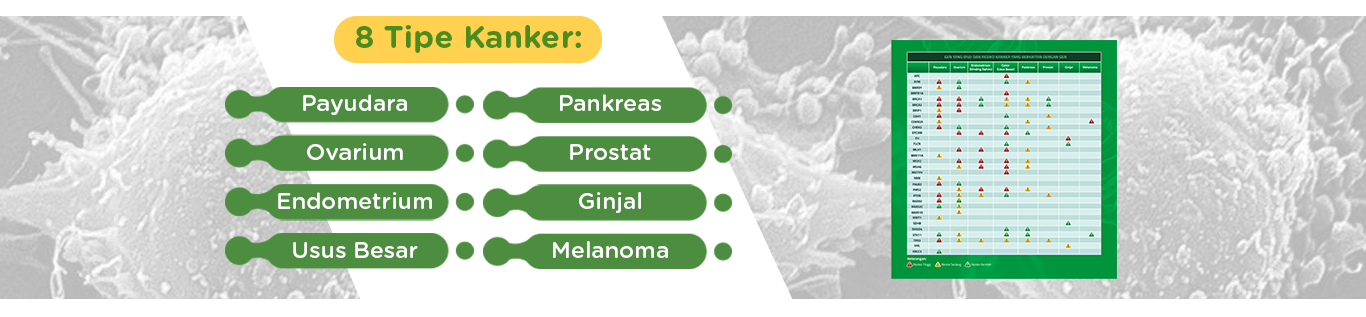
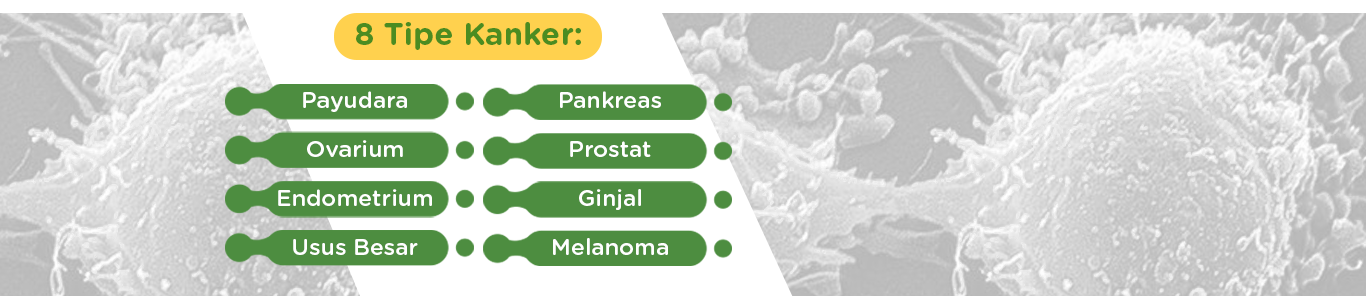
Update

diff --git a/assets/css/hcs/detail.css b/assets/css/hcs/detail.css
@@ -1,23 +1,20 @@
-
+/* Barisan 1 */
 .hcs-detail{
     background-image: url("../../images/hcs-detail/Hereditary.png");
     background-repeat: no-repeat;
-    height: 450px;
-    margin-top: -137px
+    background-size:cover;
+    background-position: center;
+    height: 550px;
+    margin-top: -140px
     /* Center and scale the image nicely */
 }
 
-.hcs-detail-2{
-    background-image: url("../../images/hcs-detail/8-tipe-kanker.png");
-    height: 450px;
-    background-repeat: no-repeat;
-}
-
 .detail-posisi{
-    padding-top: 200px;
+    padding-top: 170px;
     opacity: 0.9;
     transition: padding 0.9s,;
     -webkit-transition: padding 0.9s, ;
+    transition: color 0.3s, background-color 0.3s, padding 0.9s ;
 }
 
 @font-face {
@@ -27,7 +24,7 @@
 .header-detail{
     color: white;
     font-family: "GothamRounded-Medium";
-
+    font-size: 32px;
     
 }
 
@@ -35,6 +32,39 @@
     font-family: "GothamRounded-Book";
     src: url('../../bootstrap/fonts/GothamRounded-Book.otf');
     }
+.caption-detail{
+    color: white;
+    font-family: "GothamRounded-Book";
+    font-size : 22px;
+    text-align : justify;
+}
+
+/* Barisan 1 */
+
+
+/* Barisan 2 */
+
+.hcs-detail-2{
+    background-image: url("../../images/hcs-detail/8-tipe-kanker.png");
+    height: 290px;
+
+    background-repeat:no-repeat;
+    background-size:cover;
+    background-position:center;
+
+    margin-top : 80px;
+}
+
+.image-detail-2{
+    margin-top : 30px;
+
+}
+
+
+/* Barisan 2 */
+
+
+
 /* .header-hcs-2{
     color:white;
     font-family: "GothamRounded-Medium";

diff --git a/views/page-detail-hcs.html b/views/page-detail-hcs.html
@@ -3,7 +3,7 @@
 <link rel="stylesheet" href="assets/css/alamat_custom.css">
 <link rel="stylesheet" href="assets/css/hcs/detail.css">
 
-<!-- barisan 1 -->
+<!-- barisan copy -->
 <section class="bg-img hcs">
     <div class="container word-header-hcs">
       <div class="row">
@@ -14,18 +14,18 @@
       </div>
     </div>
 </section>
-<!-- barisan 1 -->
+<!-- barisan copy -->
 
-<!-- Barisan 2 -->
+<!-- Barisan 1 -->
 <section class="hcs-detail">
     <div class="container detail-posisi">
         <div class="row">
-            <div class="col-md-7">
+            <div class="col-md-3">
                 <h1 class="header-detail">HEREDITARY CANCER SCREENING </h1>
             </div>
         </div>
         <div class="row">
-            <div class="col-md-7">
+            <div class="col-md-6">
                 <p class="caption-detail">
                     Melalui Hereditary Cancer Screening, sebanyak  32 
                     gen  yang   diasosiasikan   dengan   8  jenis  kanker 
@@ -36,13 +36,21 @@
         </div>
     </div>
 </section>
+<!-- Barisan 1 -->
+
 <!-- Barisan 2 -->
-
-<!-- Barisan 3 -->
 <section class="hcs-detail-2">
-    <div>
-
+    <div class="container posisi">
+        <div class="row">
+            <div class="col-md-6">
+                   
+            </div>
+            <div class="col-md-6 image-detail-2">
+                    <img class="img-responsive" ng-src="assets/images/hcs-detail/{{tabelKanker}}"  />
+            </div>
+        </div>
     </div>
 </section>
-<!-- Barisan 3 -->
+<!-- Barisan 2 -->
+
 

diff --git a/app/controller/hcsController.js b/app/controller/hcsController.js
@@ -14,6 +14,8 @@ animateApp.controller('hcsController', function($scope) {
 
     $scope.igWhite ="instagram-white.png";
     $scope.igColor = "instagram-colored.png";
+
+    $scope.tabelKanker = "Tabel.jpg";
 });
 
 
